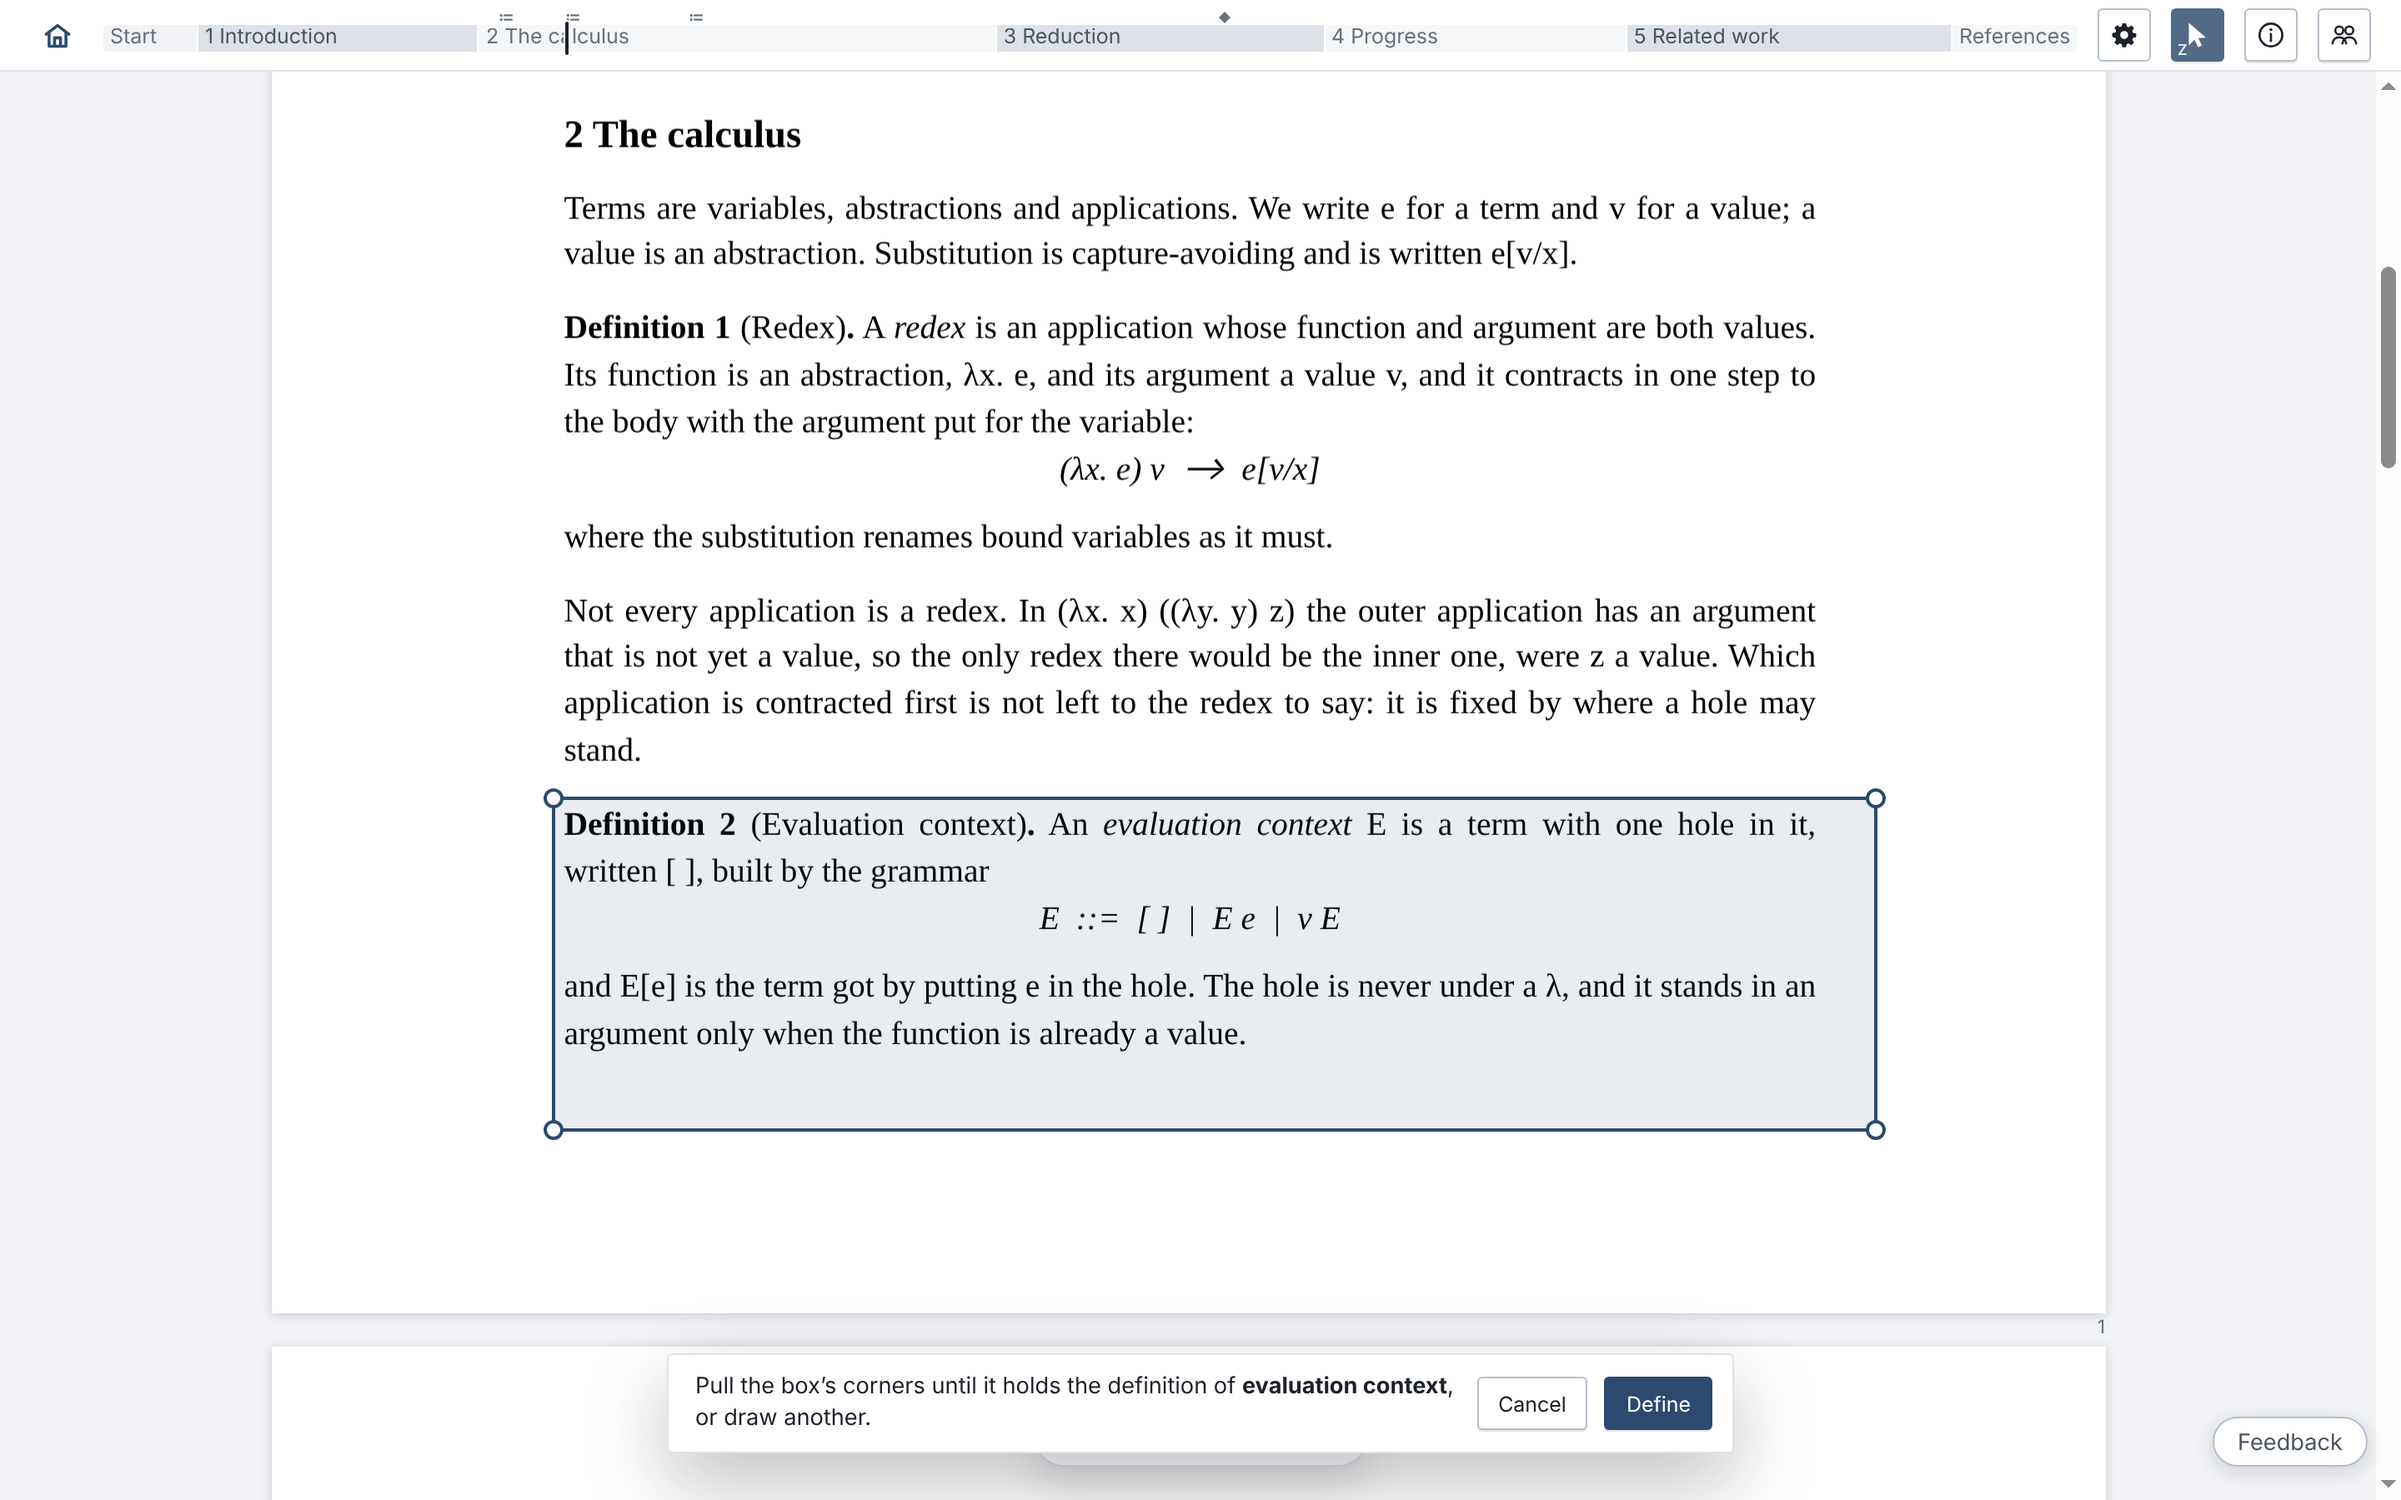
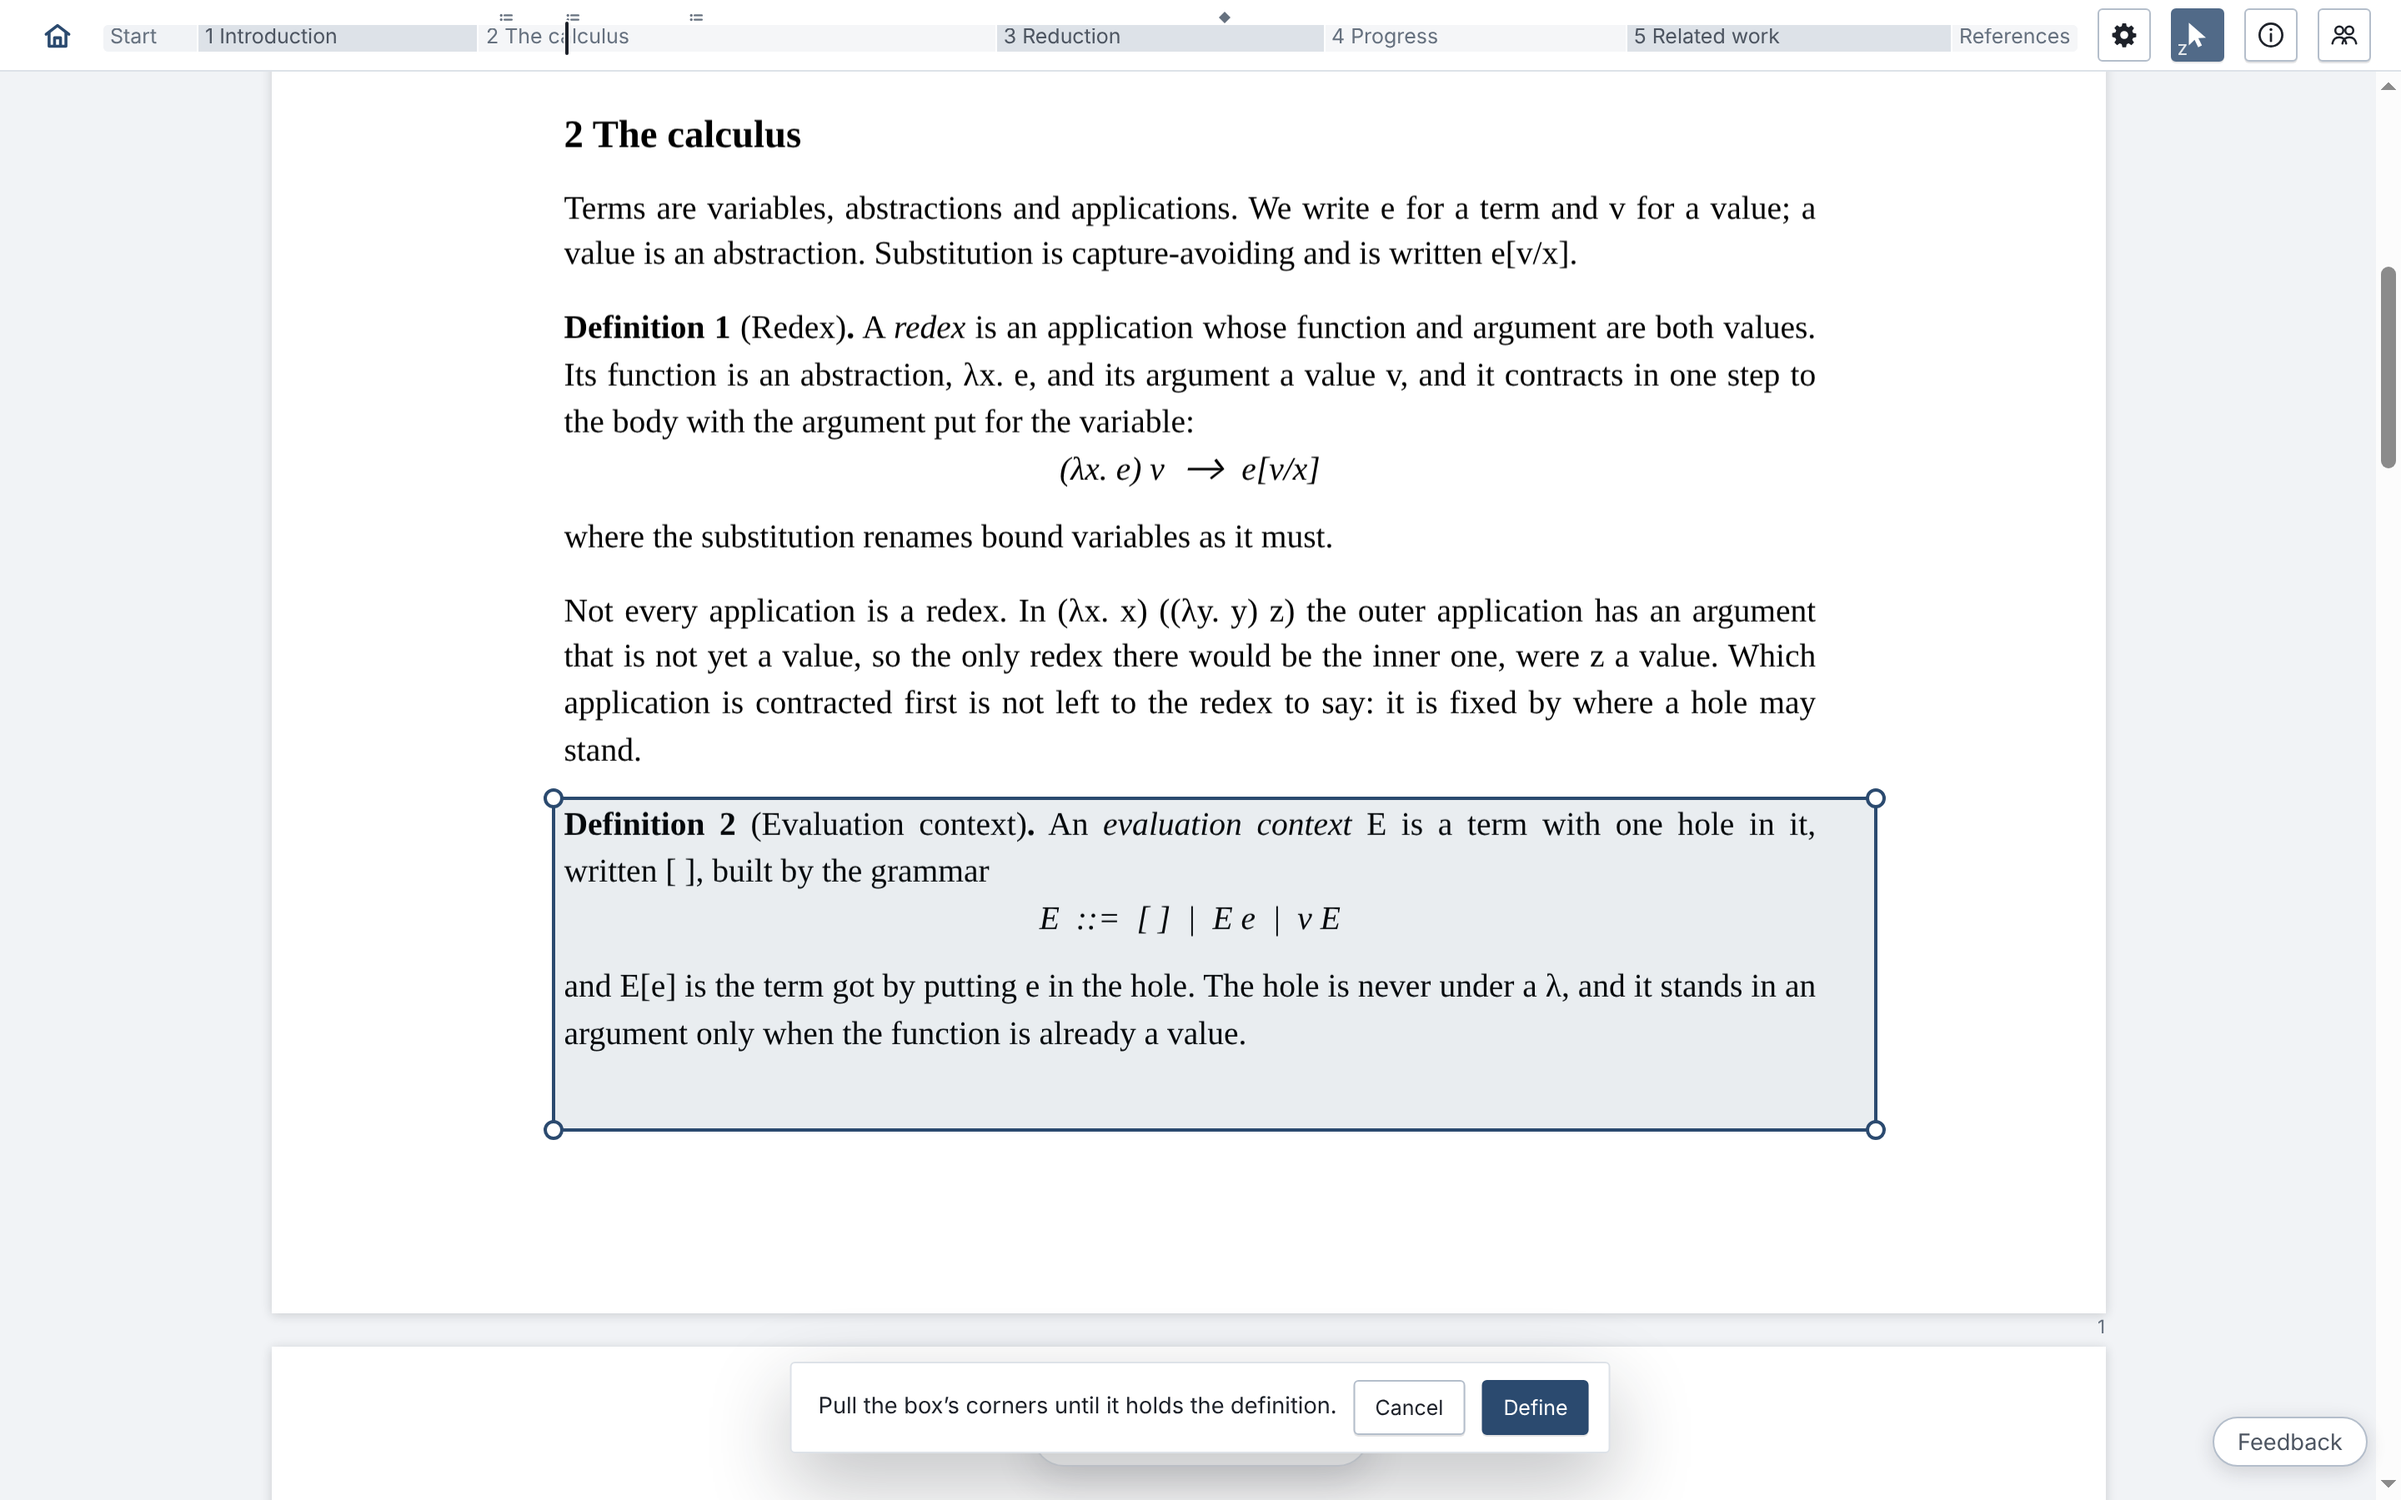
The bar over a box being set says only what to do with it
Claude-Session: https://claude.ai/code/session_01PQZzMS58jHomUHnndK5m6T

Changed region(s): [[0.2812, 0.9022, 0.7188, 0.9956]]

diff --git a/viewer/src/TermBoxer.jsx b/viewer/src/TermBoxer.jsx
@@ -109,7 +109,7 @@ export default function TermBoxer({ scrollerRef, term, value, scale, busy, error
       <div className="term-boxer-bar" role="dialog" aria-label={`Box the definition of ${term}`}>
         <p>
           {value
-            ? <>Pull the box’s corners until it holds the definition of <strong>{term}</strong>, or draw another.</>
+            ? 'Pull the box’s corners until it holds the definition.'
             : <>Go to where <strong>{term}</strong> is defined and draw a box around the definition.</>}
         </p>
         {error && <p className="feedback-error">{error}</p>}
